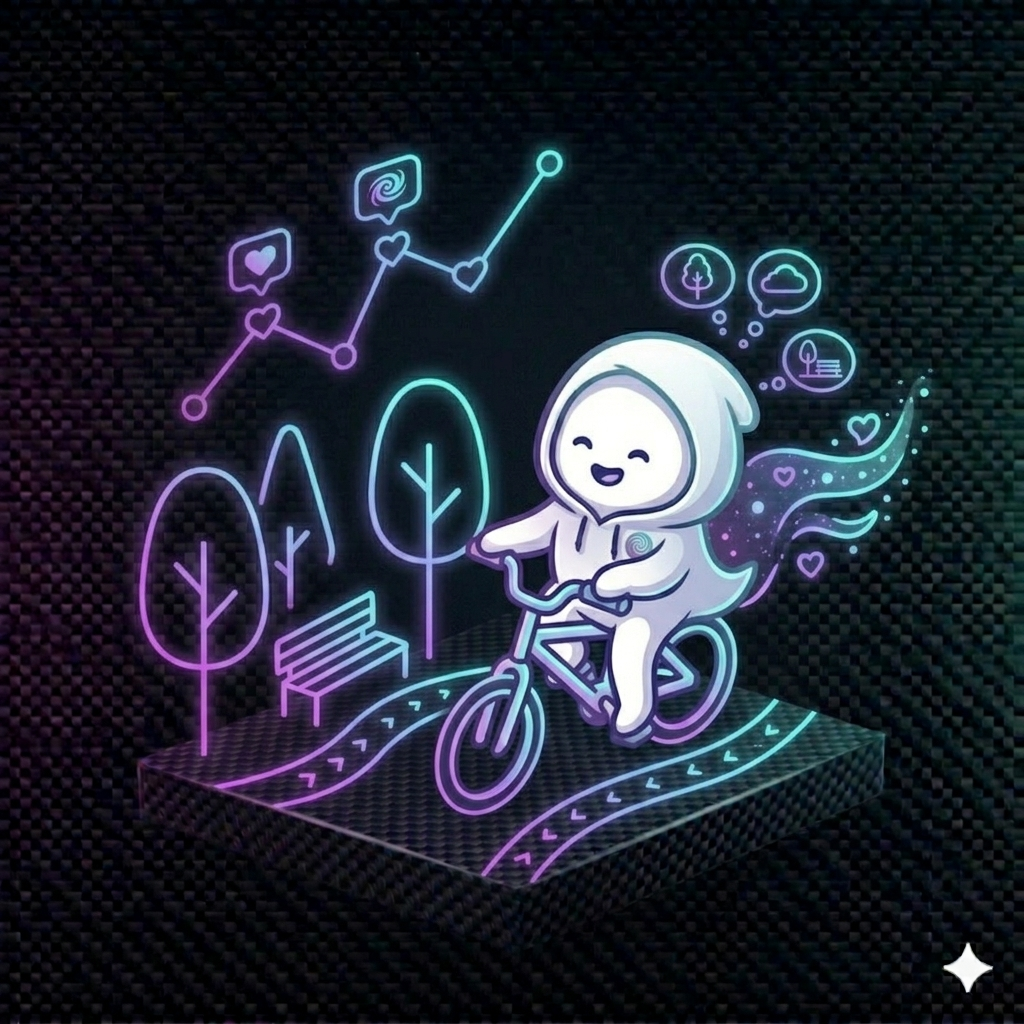
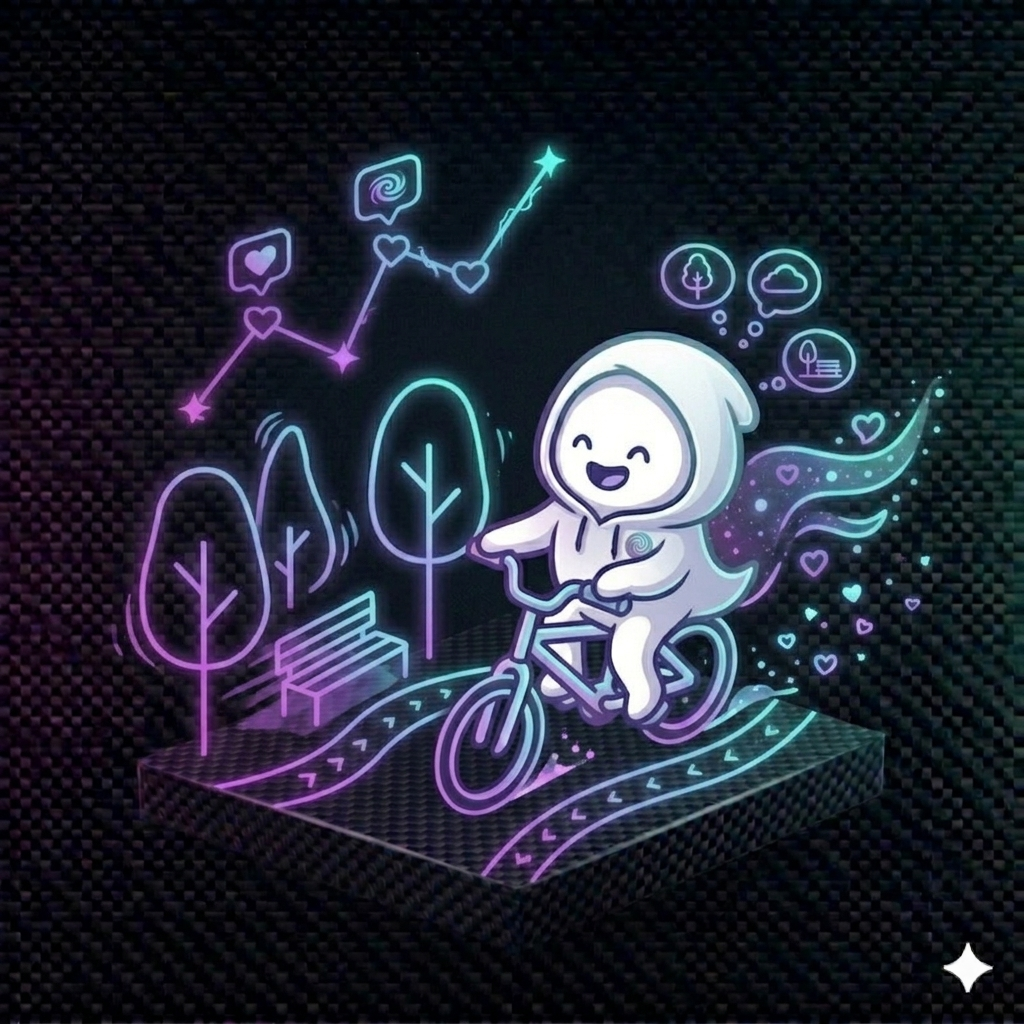
fix: add AbortController to JobQueue for cooperative job cancellation
Jobs now receive an abort signal on timeout and daemon shutdown, enabling
cooperative cancellation alongside the existing SIGTERM to child processes.
Also updates ghost idle-8 illustration.

diff --git a/src/daemon/job-queue.ts b/src/daemon/job-queue.ts
@@ -13,6 +13,7 @@ type ActiveJob = {
   category: 'llm' | 'io';
   phase: string | null;
   promise: Promise<void>;
+  abort: AbortController;
 };
 
 export class JobQueue {
@@ -84,12 +85,15 @@ export class JobQueue {
     const originalParams: Record<string, unknown> = { ...(job.result as Record<string, unknown>) };
     delete originalParams.error;
 
+    const abort = new AbortController();
+
     const activeEntry: ActiveJob = {
       jobId: job.id,
       type: job.type,
       category: entry.category,
       phase: null,
       promise: null!,
+      abort,
     };
 
     // Per-job setPhase closure
@@ -103,14 +107,13 @@ export class JobQueue {
       }
     };
 
-    const ac = new AbortController();
     const ctx: JobContext = {
       jobId: job.id,
       config: this.config,
       db: this.db,
       eventBus: this.eventBus,
       setPhase,
-      signal: ac.signal,
+      signal: abort.signal,
     };
 
     // Emit job:started
@@ -198,7 +201,7 @@ export class JobQueue {
     Promise.race([jobPromise.then(() => 'done' as const), timeoutPromise]).then(winner => {
       if (winner === 'timeout' && this.active.has(job.id)) {
         cancelled = true;
-        ac.abort();
+        abort.abort(new Error(`timeout (${Math.round(JOB_TIMEOUT_MS / 60000)}min)`));
         killJobAdapters(job.id);
         this.db.updateJob(job.id, {
           status: 'failed',
@@ -237,6 +240,7 @@ export class JobQueue {
 
   killAll(): void {
     for (const entry of this.active.values()) {
+      entry.abort.abort(new Error('daemon shutdown'));
       killJobAdapters(entry.jobId);
     }
     this.active.clear();
